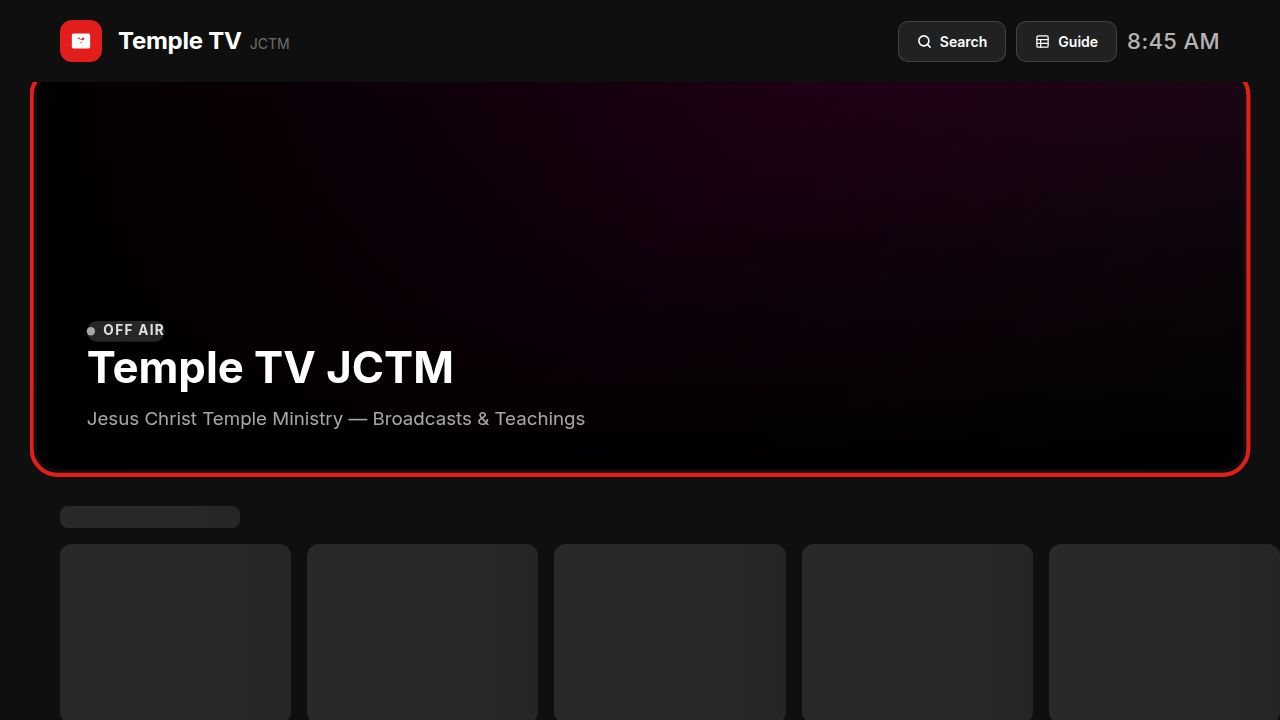
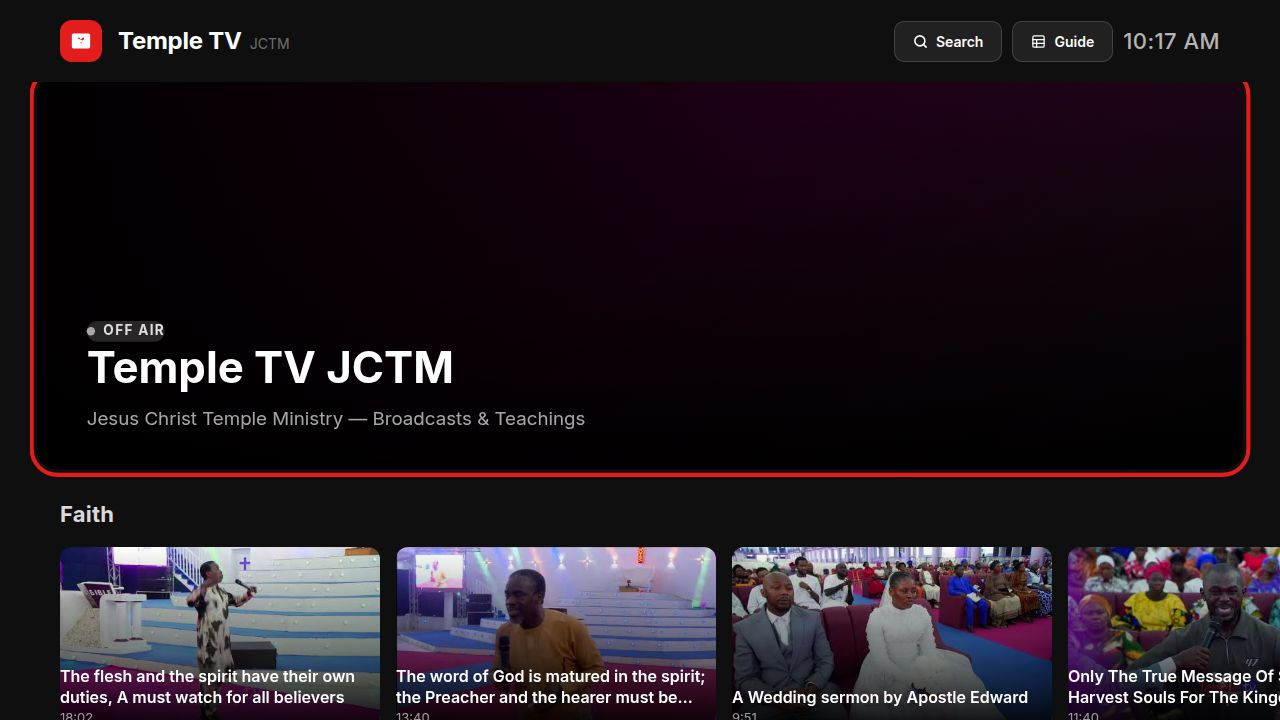
Update app to display "Watch Temple TV" and add ambient video previews
Modify mobile app to consistently show "Watch Temple TV" CTA and enhance TV hero component with ambient YouTube video previews.

Replit-Commit-Author: Agent
Replit-Commit-Session-Id: 919faa93-56b2-4890-b408-3fdd55e8548a
Replit-Commit-Checkpoint-Type: full_checkpoint
Replit-Commit-Event-Id: 9b627b49-23c4-4c66-9e24-dd932ae91422
Replit-Commit-Screenshot-Url: https://storage.googleapis.com/screenshot-production-us-central1/90828a05-3eee-47bd-8f4f-b6238eedd502/919faa93-56b2-4890-b408-3fdd55e8548a/9ibCw2x

Changed region(s): [[0.0312, 0.7028, 1.0, 1.0], [0.7188, 0.0306, 0.9375, 0.0917]]

diff --git a/artifacts/tv/src/components/LiveHero.tsx b/artifacts/tv/src/components/LiveHero.tsx
@@ -29,7 +29,24 @@ export function LiveHero({ liveStatus, focused, onSelect }: LiveHeroProps) {
       onClick={onSelect}
       onFocus={() => {}}
     >
-      {thumbUrl ? (
+      {focused && videoId ? (
+        <iframe
+          src={`https://www.youtube-nocookie.com/embed/${videoId}?autoplay=1&mute=1&controls=0&modestbranding=1&playsinline=1&loop=1&playlist=${videoId}&rel=0&iv_load_policy=3&disablekb=1`}
+          allow="autoplay; encrypted-media; picture-in-picture"
+          frameBorder={0}
+          style={{
+            position: "absolute",
+            top: "50%",
+            left: "50%",
+            width: "120%",
+            height: "120%",
+            transform: "translate(-50%, -50%)",
+            pointerEvents: "none",
+            border: 0,
+          }}
+          title="Temple TV ambient preview"
+        />
+      ) : thumbUrl ? (
         <img
           src={thumbUrl}
           alt="Live"
@@ -72,7 +89,7 @@ export function LiveHero({ liveStatus, focused, onSelect }: LiveHeroProps) {
                   <svg width="18" height="18" viewBox="0 0 24 24" fill="white">
                     <path d="M8 5v14l11-7z" />
                   </svg>
-                  <span style={{ fontSize: 18, fontWeight: 700, color: "#fff" }}>Watch Live</span>
+                  <span style={{ fontSize: 18, fontWeight: 700, color: "#fff" }}>Watch Temple TV</span>
                 </div>
               </div>
             )}

diff --git a/artifacts/mobile/app/(tabs)/index.tsx b/artifacts/mobile/app/(tabs)/index.tsx
@@ -409,9 +409,7 @@ export default function WatchScreen() {
                     style={[styles.watchBtn, { backgroundColor: liveStatus.isLive ? "#FF0040" : c.primary }]}
                   >
                     <Feather name="play" size={15} color="#FFF" />
-                    <Text style={styles.watchBtnText}>
-                      {liveStatus.isLive || showScheduledLive ? "Join Live" : showBroadcast ? "Tune In Now" : "Watch Stream"}
-                    </Text>
+                    <Text style={styles.watchBtnText}>Watch Temple TV</Text>
                   </Pressable>
                 </View>
               </GlassCard>